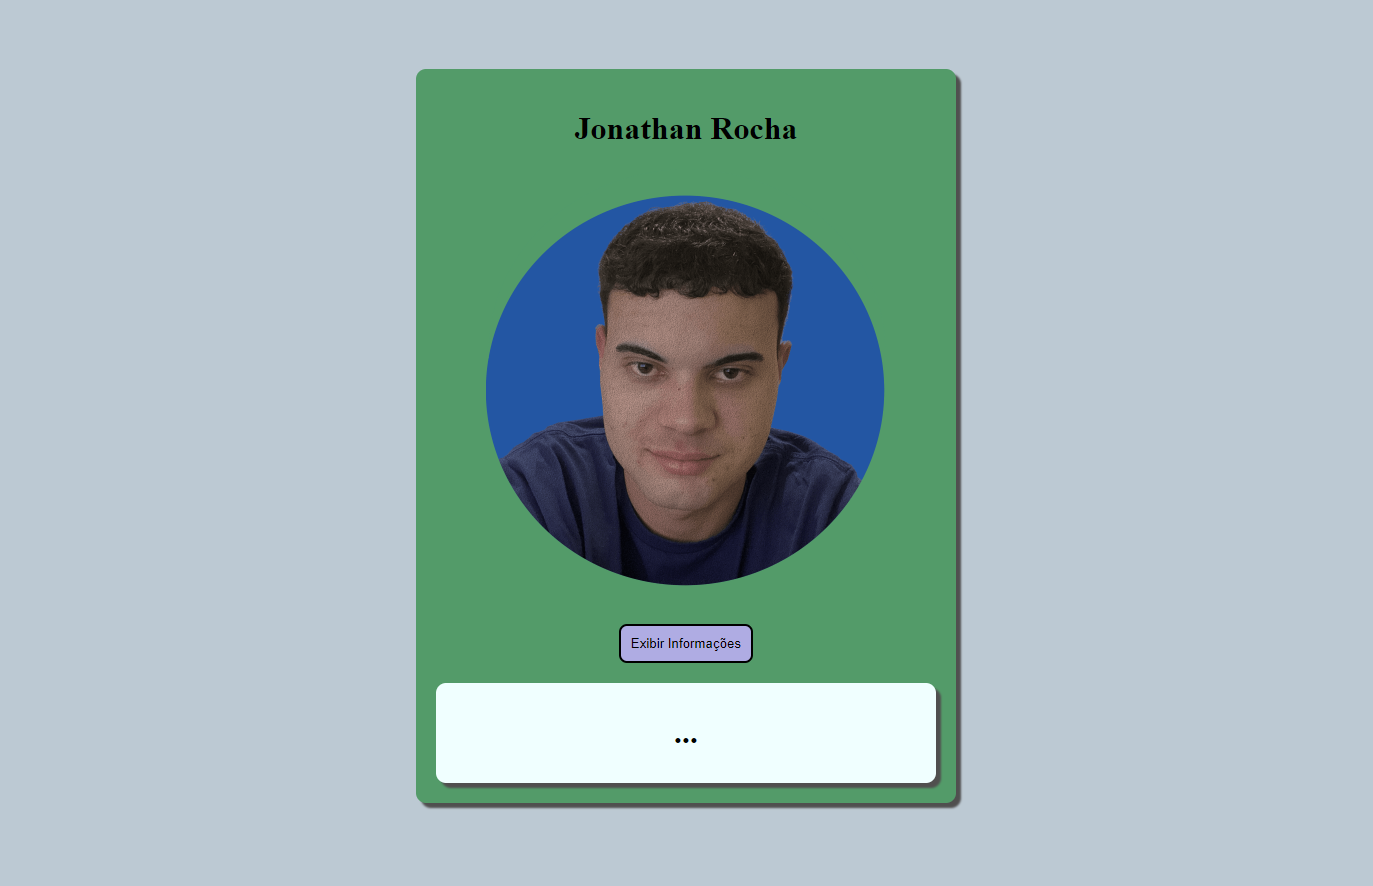
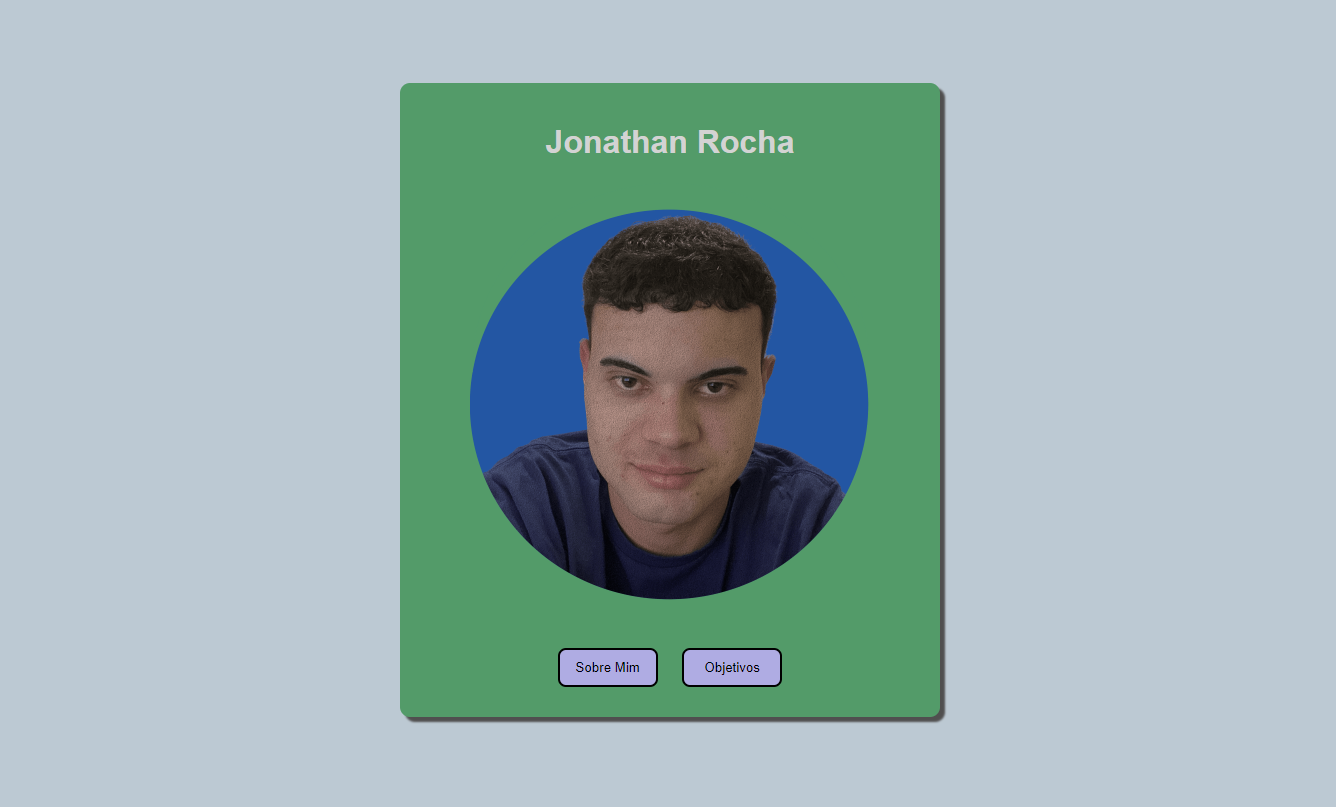
SAMPLE update

Changed region(s): [[0.2762, 0.062, 0.7058, 0.9294]]

diff --git a/src/pages/style-pages.css b/src/pages/style-pages.css
@@ -1,5 +1,5 @@
 p{  
-    color: rgb(84, 80, 80);
+    color: mediumblue;
     font-size: 25px;
 }
 

diff --git a/src/style.css b/src/style.css
@@ -8,7 +8,7 @@ body{
 }
 
 h1{
-    color: rgb(244, 237, 237);
+    color: lightgray;
 }
 
 a{
